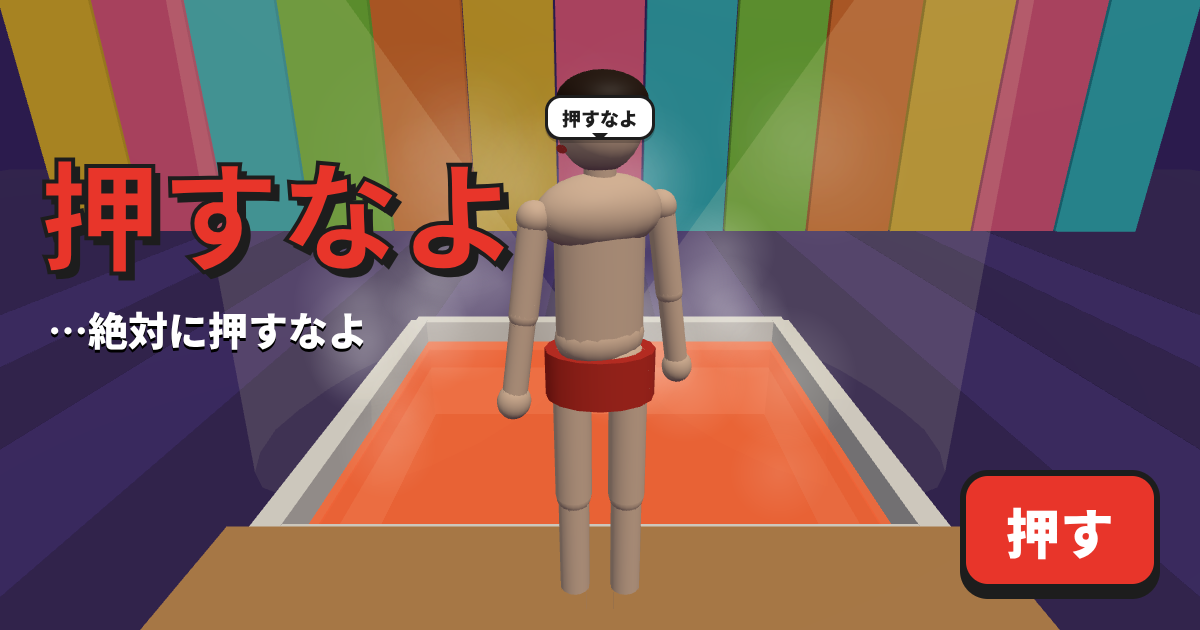
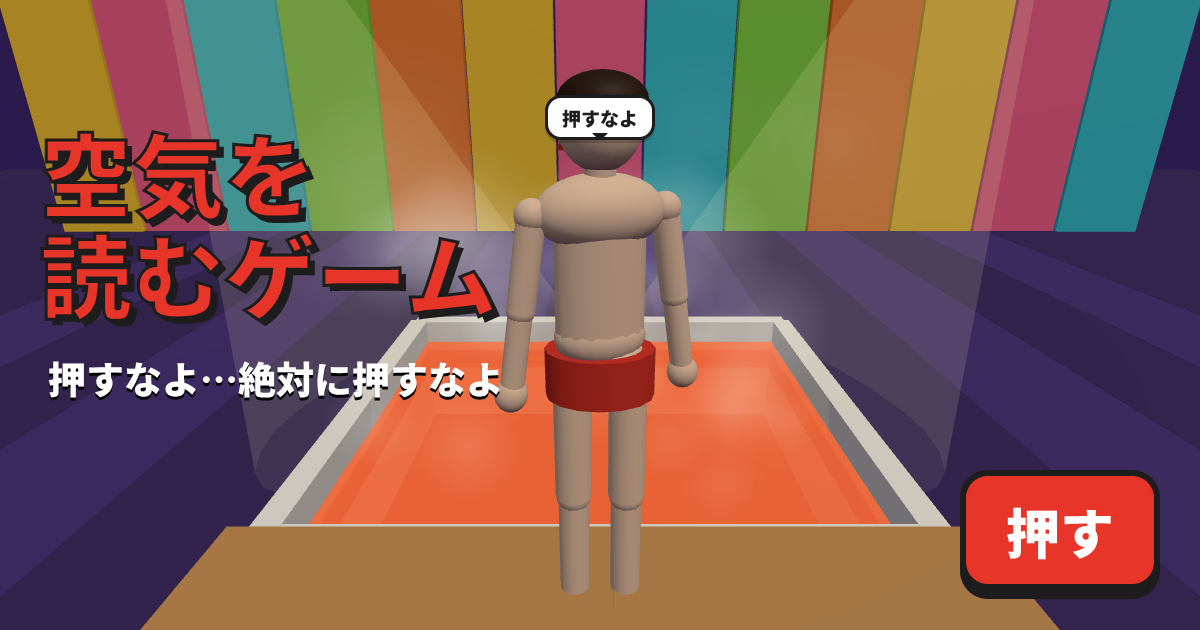
名前を「空気を読むゲーム」に変更
Claude-Session: https://claude.ai/code/session_01JQ3FvDDwxq7oVezrn9ywCr

diff --git a/README.md b/README.md
@@ -1,4 +1,4 @@
-# 押すなよ
+# 空気を読むゲーム
 
 目の前に背中。その先は熱湯。「押すなよ」と言われたら、どうする？
 
